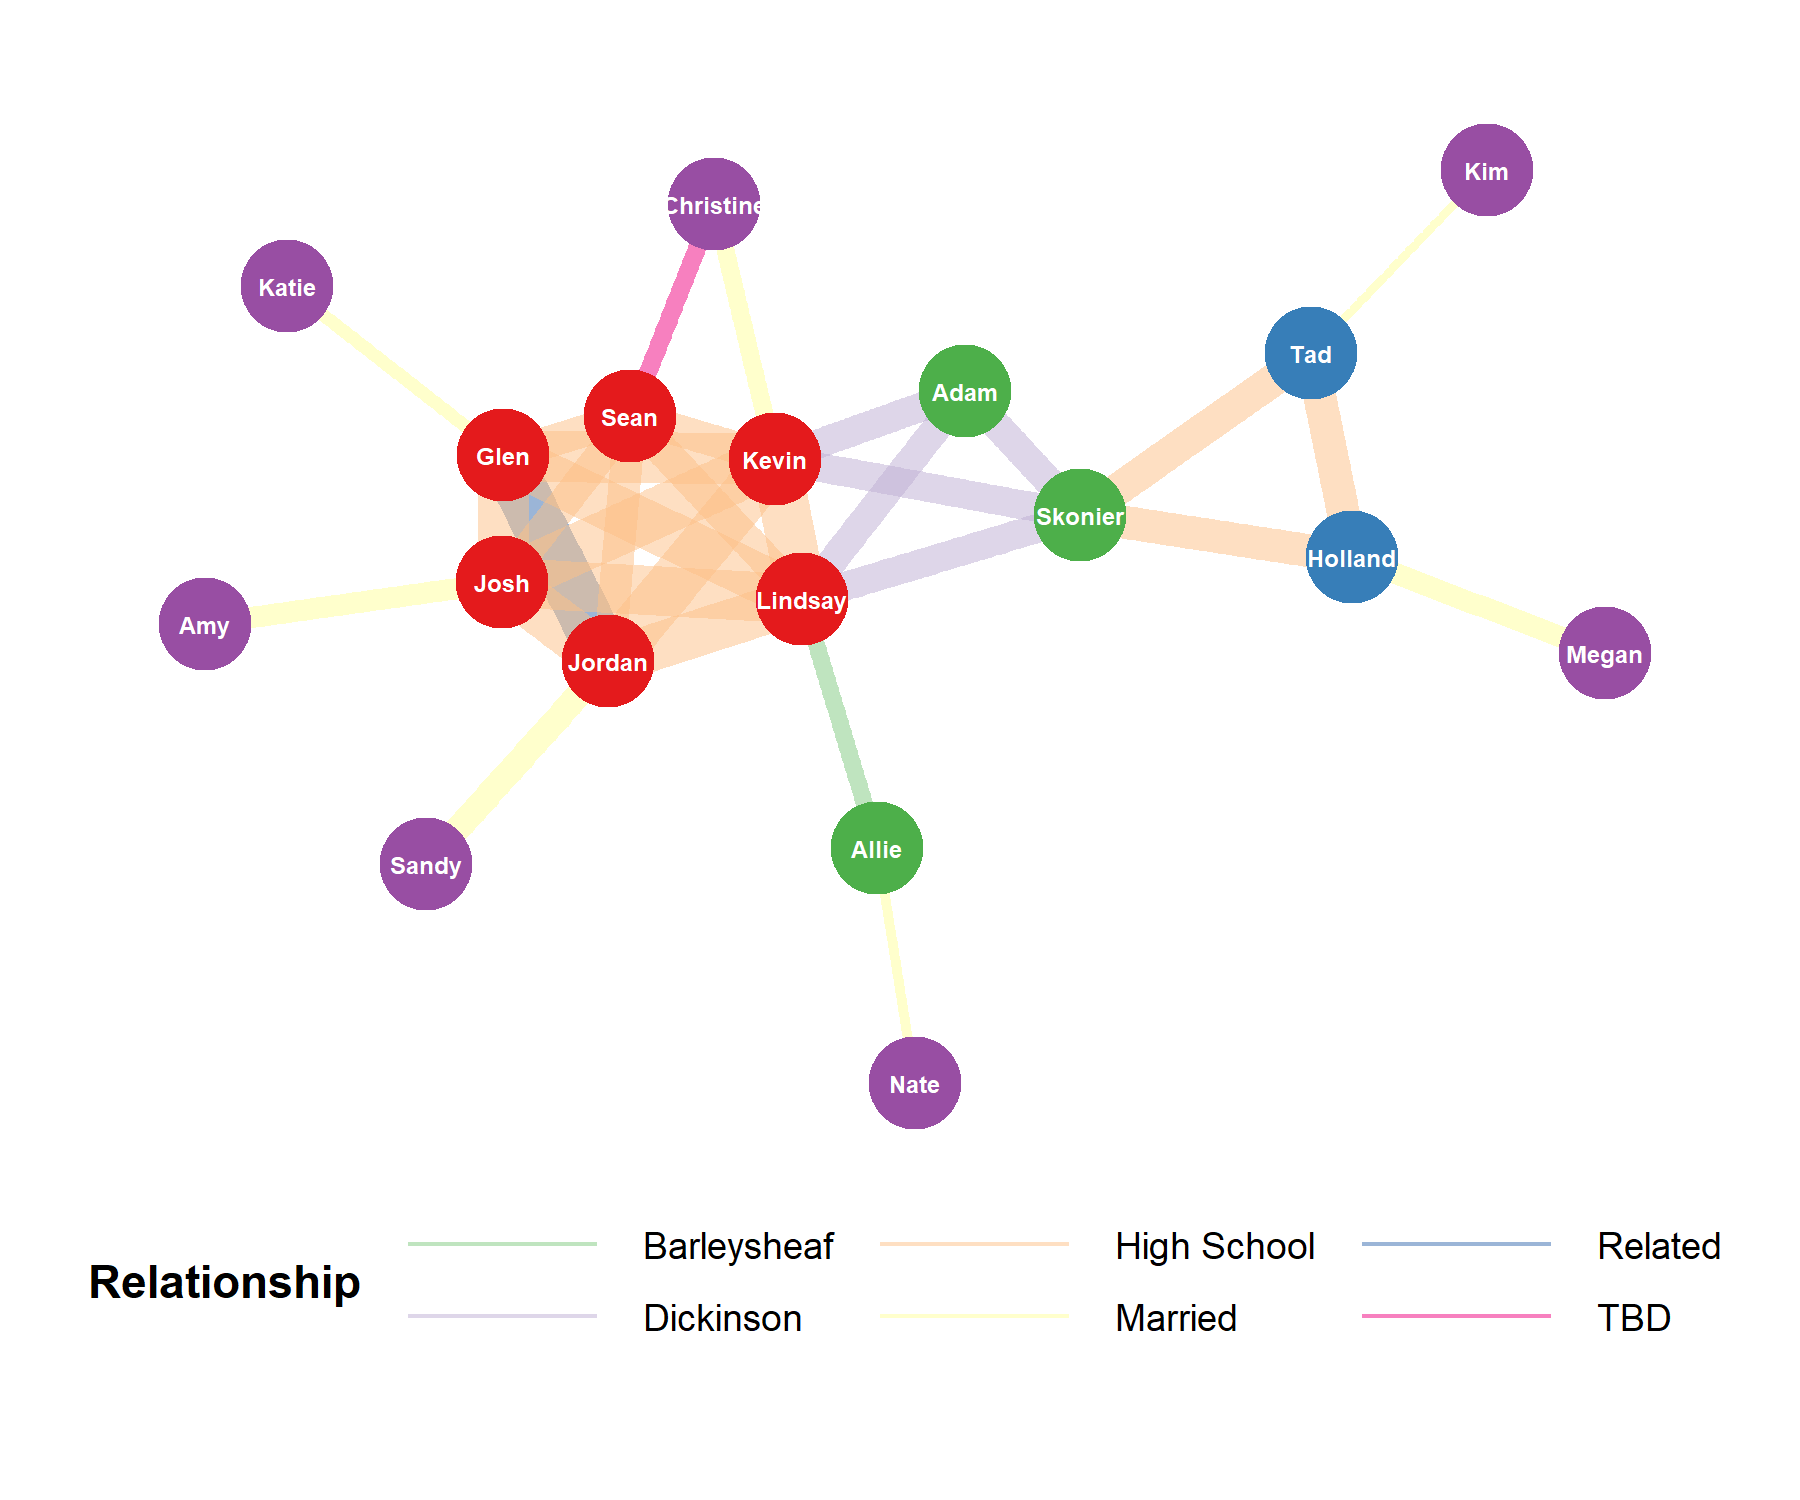
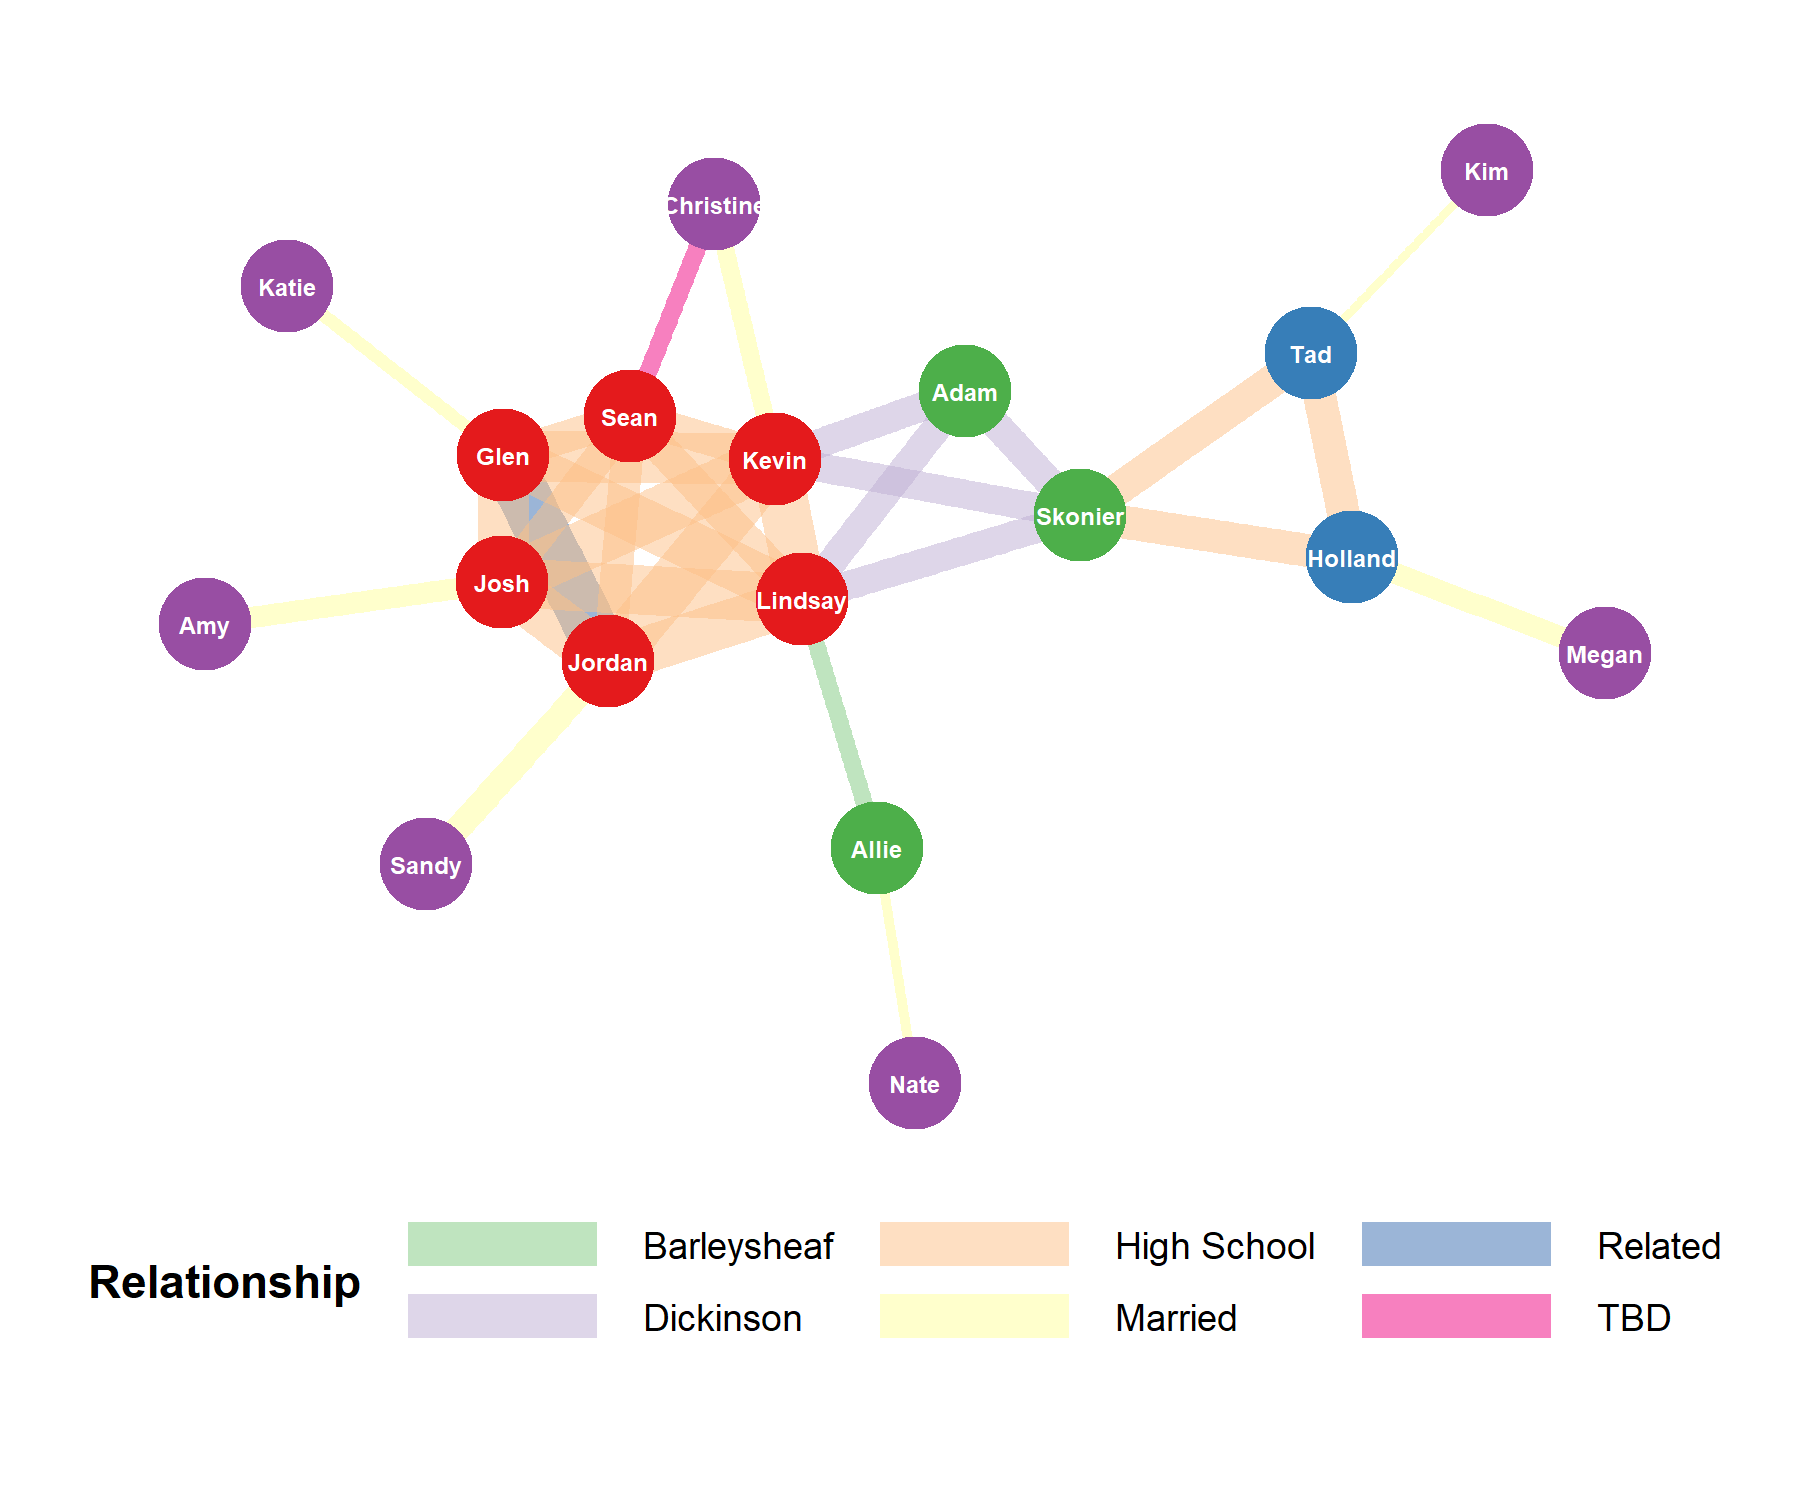
Fixed line thickness in the legend for alternative2

Changed region(s): [[0.7467, 0.7973, 0.8711, 0.8893], [0.4667, 0.7973, 0.5911, 0.8893], [0.2178, 0.7973, 0.3422, 0.8893]]

diff --git a/README.md b/README.md
@@ -3,7 +3,7 @@ The Social Network
 
 At any large gathering with our friends, it seems the conversation inevitably turns to how the hell we all came to know each other. Admitedly, I've never been total clear on that point myself. I'll scan the room full of this [ragtag bunch of misfits](https://tvtropes.org/pmwiki/pmwiki.php/Main/RagtagBunchOfMisfits) and always ask myself the same question...
 
-<img src="https://memegenerator.net/img/instances/36549336/who-are-these-people.jpg" alt="no caption" width="200" />
+<img src="seinfeld.jpg" alt="no caption" width="200" />
 
 First Contact
 -------------
@@ -47,5 +47,3 @@ I'm also going to break my own rules a bit and show Christine as connected with 
 Sandy suggested that we also show how long the relationship has been going. I added a "Year Met" column to [the second tab of the spreadsheet](https://docs.google.com/spreadsheets/d/1YsUYg0vrxi9oyW-0IcuE8XfAKGZb6MR7VlpmdChGI0A/edit#gid=1618818909); there's a lot of guesswork there on my part so please update it as needed. We can use the length of the relationship to set the thickness of the edges connecting our nodes.
 
 <img src="README_files/figure-markdown_github/alternative2-1.png" style="display: block; margin: auto;" />
-
-I spent longer than I care to admit trying to get the lines in the legend to be thicker, I'll have to come back to it.
